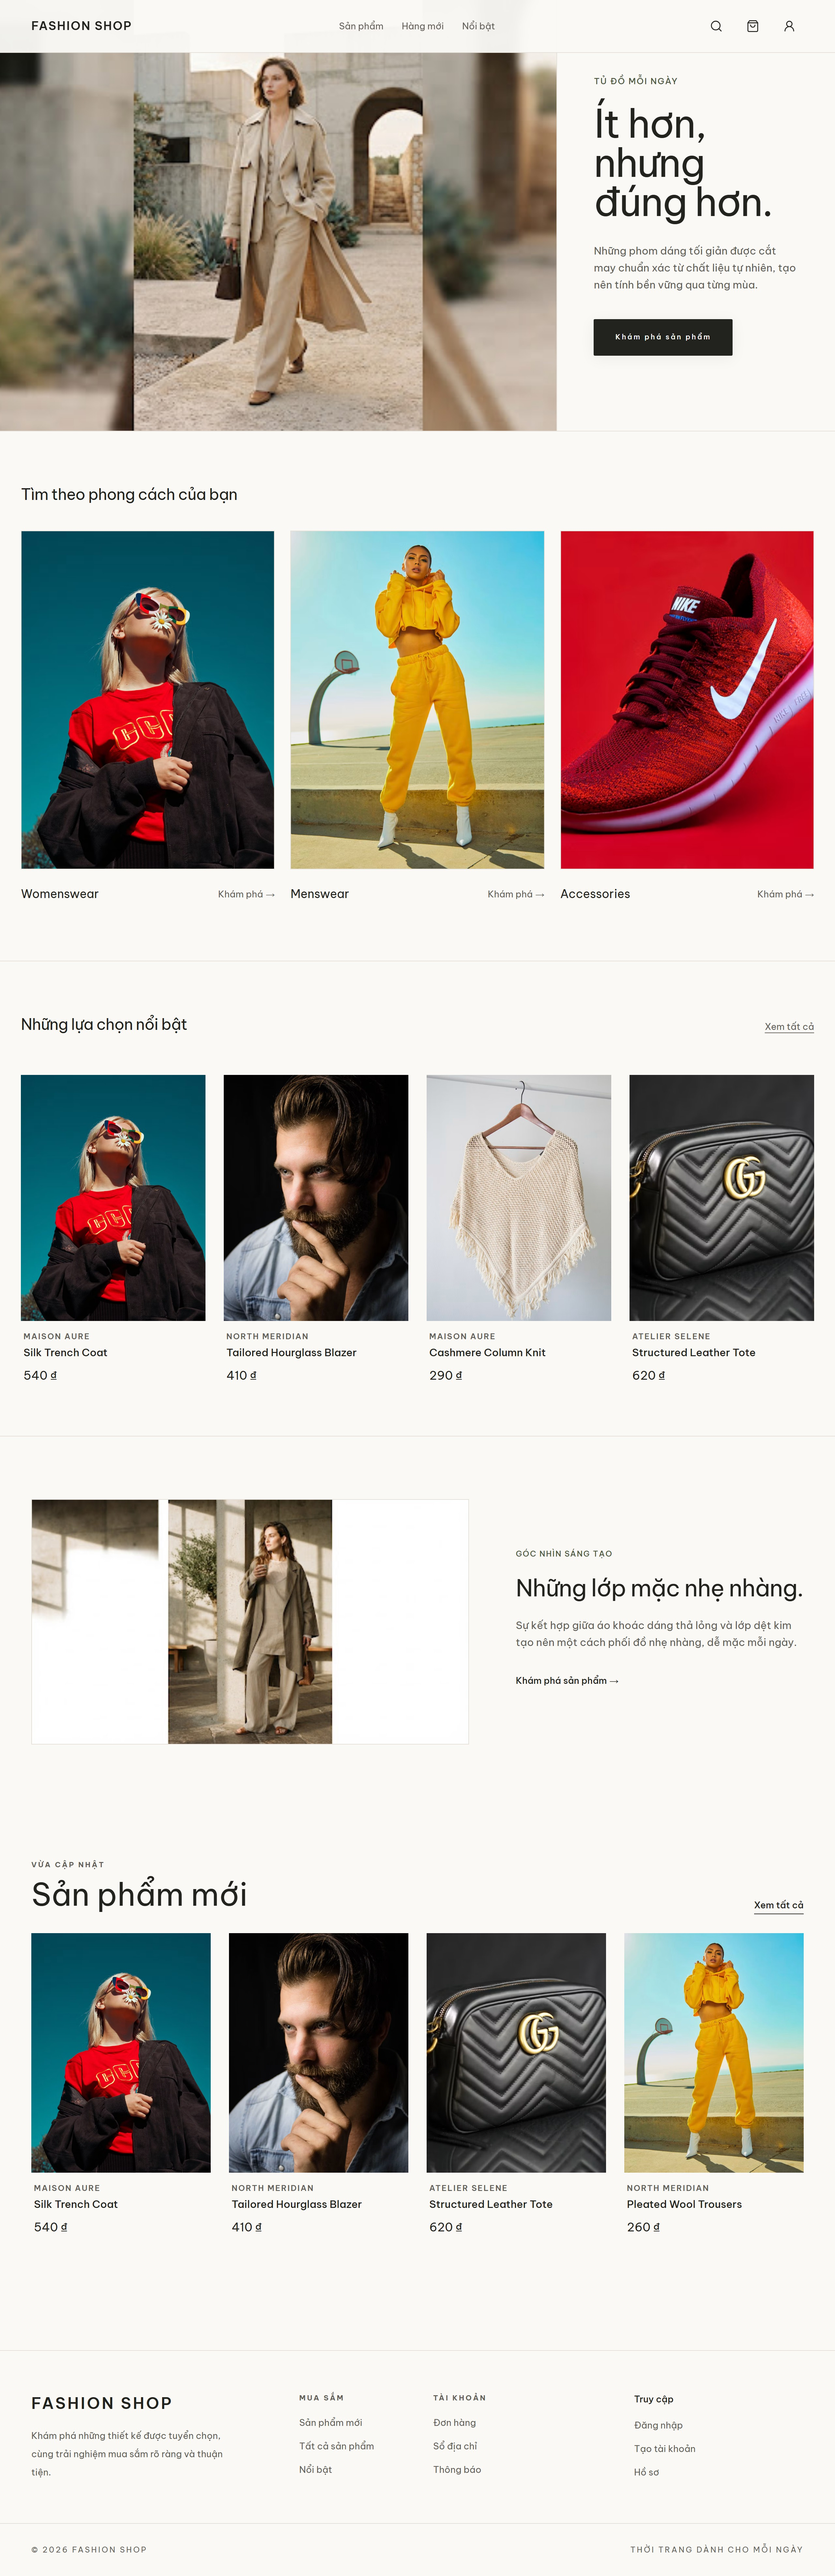
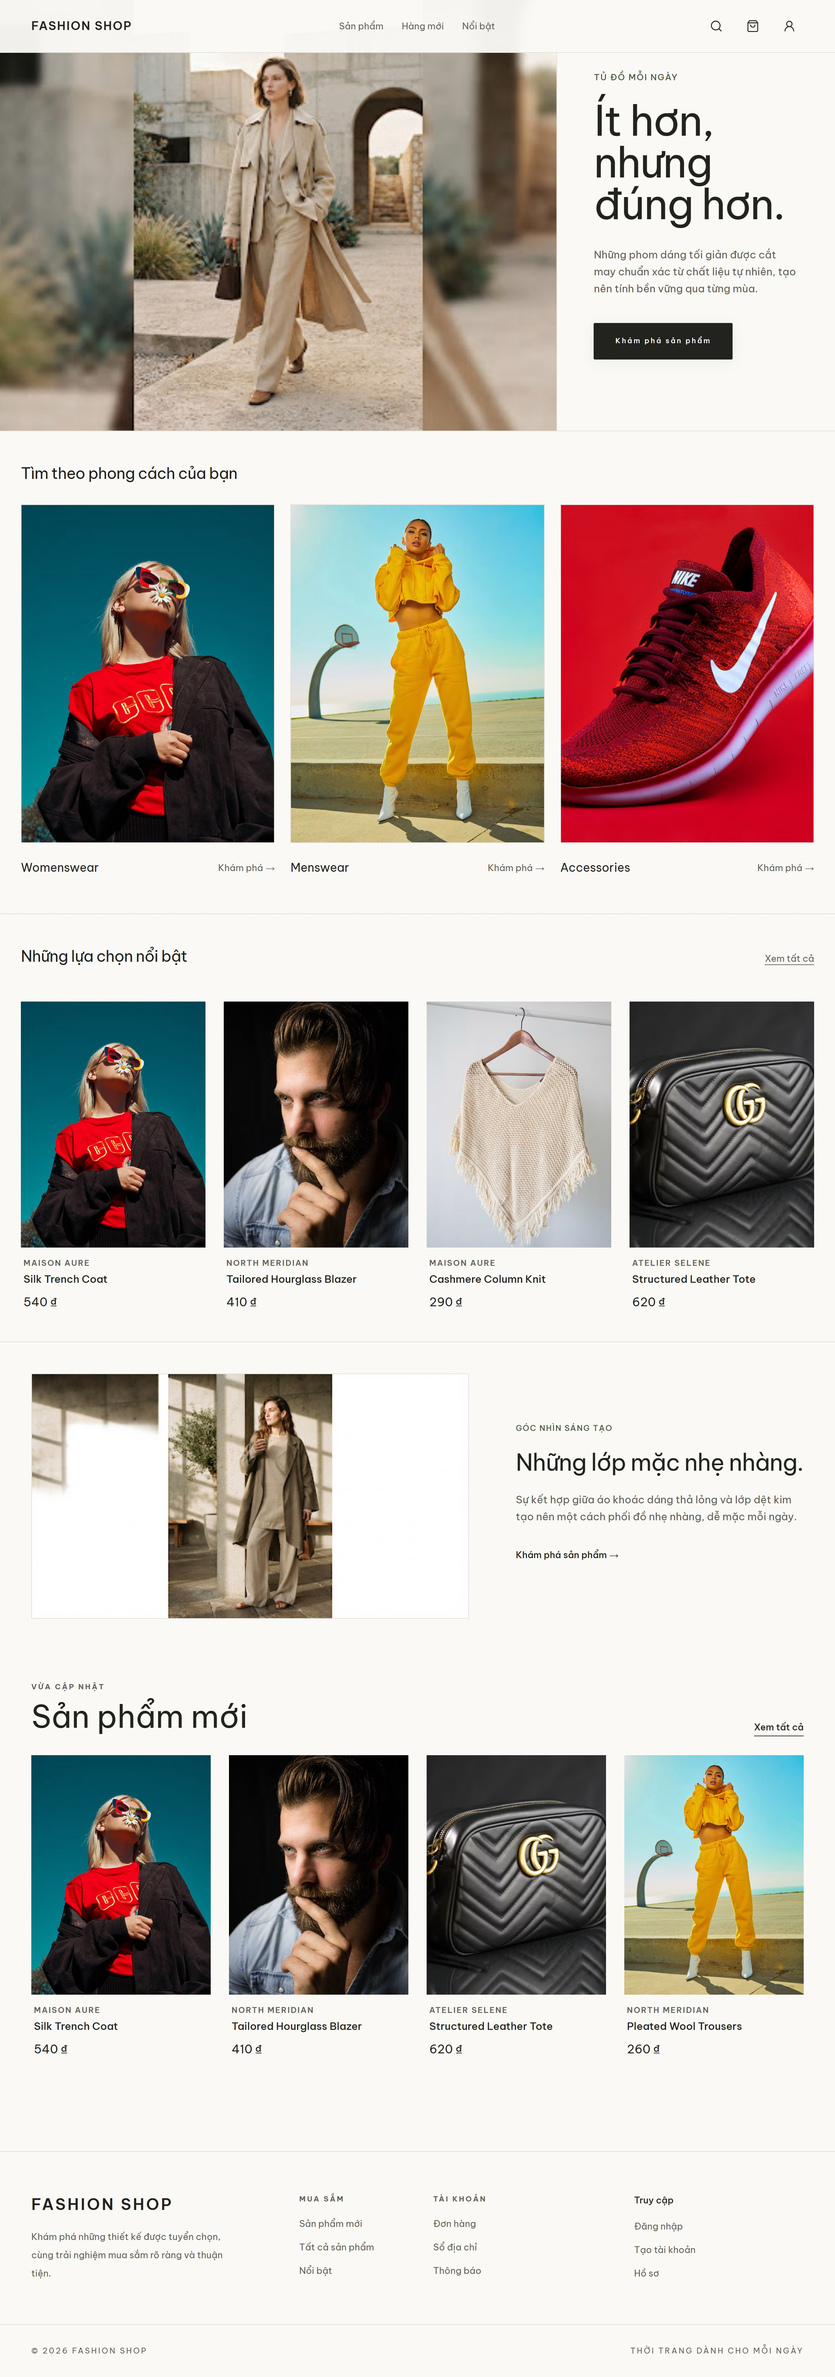
fix(home): make hero full bleed and compact sections

diff --git a/src/features/home/pages/HomePage.tsx b/src/features/home/pages/HomePage.tsx
@@ -45,11 +45,11 @@ export const HomePage = () => {
       <PageWrapper className="space-y-0 pb-0 !pt-0">
         <HeroSection />
         {categoriesQuery.isLoading ? (
-          <Container className="grid grid-cols-1 gap-5 py-12 sm:grid-cols-3 md:py-section">
+          <Container className="grid grid-cols-1 gap-5 py-8 sm:grid-cols-3 md:py-12">
             {Array.from({ length: 3 }).map((_, index) => <SkeletonCard key={index} />)}
           </Container>
         ) : categoriesQuery.isError ? (
-          <Container className="py-12 md:py-section">
+          <Container className="py-8 md:py-12">
             <ErrorCard
               action={<button className="underline underline-offset-4" onClick={() => void categoriesQuery.refetch()} type="button">Thử lại</button>}
               description="Danh mục chưa tải được. Vui lòng thử lại."
@@ -61,11 +61,11 @@ export const HomePage = () => {
         )}
 
         {featuredQuery.isLoading ? (
-          <Container className="grid grid-cols-2 gap-4 py-12 md:grid-cols-4 md:py-section">
+          <Container className="grid grid-cols-2 gap-4 py-8 md:grid-cols-4 md:py-12">
             {Array.from({ length: 4 }).map((_, index) => <SkeletonCard key={index} />)}
           </Container>
         ) : featuredQuery.isError ? (
-          <Container className="py-12 md:py-section">
+          <Container className="py-8 md:py-12">
             <ErrorCard
               action={<button className="underline underline-offset-4" onClick={() => void featuredQuery.refetch()} type="button">Thử lại</button>}
               description="Các sản phẩm nổi bật chưa tải được. Vui lòng thử lại."
@@ -75,7 +75,7 @@ export const HomePage = () => {
         ) : featuredQuery.data?.length ? (
           <FeaturedProducts products={featuredQuery.data} />
         ) : (
-          <Container className="py-12 md:py-section">
+          <Container className="py-8 md:py-12">
             <EmptyState description="Sản phẩm nổi bật sẽ xuất hiện tại đây khi catalog có dữ liệu." title="Chưa có sản phẩm nổi bật" />
           </Container>
         )}
@@ -83,11 +83,11 @@ export const HomePage = () => {
         <CreativePerspectiveSection />
 
         {arrivalsQuery.isLoading ? (
-          <Container className="grid grid-cols-2 gap-4 py-12 md:grid-cols-4 md:py-section">
+          <Container className="grid grid-cols-2 gap-4 py-8 md:grid-cols-4 md:py-12">
             {Array.from({ length: 4 }).map((_, index) => <SkeletonCard key={index} />)}
           </Container>
         ) : arrivalsQuery.isError ? (
-          <Container className="py-12 md:py-section">
+          <Container className="py-8 md:py-12">
             <ErrorCard
               action={<button className="underline underline-offset-4" onClick={() => void arrivalsQuery.refetch()} type="button">Thử lại</button>}
               description="Sản phẩm mới chưa tải được. Vui lòng thử lại."
@@ -97,7 +97,7 @@ export const HomePage = () => {
         ) : arrivalsQuery.data?.length ? (
           <NewArrivals products={arrivalsQuery.data} />
         ) : (
-          <Container className="py-12 md:py-section">
+          <Container className="py-8 md:py-12">
             <EmptyState description="Sản phẩm mới sẽ xuất hiện tại đây khi catalog có dữ liệu." title="Chưa có sản phẩm mới" />
           </Container>
         )}

diff --git a/src/features/home/components/CategoryGrid.tsx b/src/features/home/components/CategoryGrid.tsx
@@ -25,7 +25,7 @@ export const CategoryGrid = ({ categories }: CategoryGridProps) => {
 
   if (categoryItems.length === 0) {
     return (
-      <section className="mx-auto max-w-[1440px] border-b border-border px-5 py-16 md:px-8 md:py-20">
+      <section className="mx-auto max-w-[1440px] border-b border-border px-5 py-8 md:px-8 md:py-12">
         <Container>
           <EmptyState
             action={<Link className="underline underline-offset-4" to={routes.products}>Xem sản phẩm</Link>}
@@ -38,8 +38,8 @@ export const CategoryGrid = ({ categories }: CategoryGridProps) => {
   }
 
   return (
-    <section className="mx-auto max-w-[1440px] border-b border-border px-5 py-16 md:px-8 md:py-20">
-      <div className="mb-10">
+    <section className="mx-auto max-w-[1440px] border-b border-border px-5 py-8 md:px-8 md:py-12">
+      <div className="mb-8">
         <h2 className="text-2xl font-light tracking-tight text-text-primary">Tìm theo phong cách của bạn</h2>
       </div>
       <motion.div className="grid grid-cols-2 gap-3 md:grid-cols-3 md:gap-6" {...motionPresets.staggerContainer(Boolean(reducedMotion), 0.06)}>

diff --git a/src/features/home/components/FeaturedProducts.tsx b/src/features/home/components/FeaturedProducts.tsx
@@ -10,9 +10,9 @@ type FeaturedProductsProps = {
 };
 
 export const FeaturedProducts = ({ products }: FeaturedProductsProps) => (
-  <section className="mx-auto max-w-[1440px] border-b border-border px-5 py-16 md:px-8 md:py-20">
-    <Container className="space-y-8 !px-0">
-      <div className="mb-10 flex items-baseline justify-between gap-6">
+  <section className="mx-auto max-w-[1440px] border-b border-border px-5 py-8 md:px-8 md:py-12">
+    <Container className="!px-0">
+      <div className="mb-8 flex items-baseline justify-between gap-6">
         <h2 className="text-2xl font-light tracking-tight text-text-primary">Những lựa chọn nổi bật</h2>
         <Link className="min-h-11 shrink-0 text-sm text-text-secondary underline underline-offset-4 transition-colors hover:text-text-primary focus-visible:outline focus-visible:outline-2 focus-visible:outline-offset-2 focus-visible:outline-brand-primary" to={routes.products}>
           Xem tất cả

diff --git a/src/features/home/components/HeroSection.tsx b/src/features/home/components/HeroSection.tsx
@@ -16,7 +16,7 @@ export const HeroSection = () => {
   });
 
   return (
-    <section className="mx-auto grid max-w-[1440px] grid-cols-1 border-b border-border bg-canvas lg:min-h-[660px] lg:grid-cols-12">
+    <section className="grid w-full grid-cols-1 border-b border-border bg-canvas lg:min-h-[660px] lg:grid-cols-12">
       <div className="relative order-1 min-h-[420px] overflow-hidden bg-surface-muted sm:min-h-[560px] lg:col-span-8 lg:min-h-[660px]">
         <img
           alt="Người mẫu diện trang phục tông màu trung tính"

diff --git a/src/features/home/components/NewArrivals.tsx b/src/features/home/components/NewArrivals.tsx
@@ -10,7 +10,7 @@ type NewArrivalsProps = {
 };
 
 export const NewArrivals = ({ products }: NewArrivalsProps) => (
-  <section className="py-12 md:py-section">
+  <section className="py-8 md:py-12">
     <Container className="space-y-8">
       <SectionHeader
         action={<Link className="border-b border-text-primary pb-1 text-sm font-medium text-text-primary" to={routes.products}>Xem tất cả</Link>}

diff --git a/src/features/home/components/CreativePerspectiveSection.tsx b/src/features/home/components/CreativePerspectiveSection.tsx
@@ -10,7 +10,7 @@ export const CreativePerspectiveSection = () => {
   const reducedMotion = useReducedMotion();
 
   return (
-    <section className="py-16 md:py-24">
+    <section className="py-8 md:py-12">
       <Container>
         <motion.div
           className="grid items-center gap-8 lg:grid-cols-12 lg:gap-12"

diff --git a/artifacts/issue-32/README.md b/artifacts/issue-32/README.md
@@ -19,11 +19,17 @@ The primary Home reference is the original approved Stitch implementation preser
 
 ## Wide desktop comparison
 
-The approved HTML sets the hero to `max-width: 1440px; margin-inline: auto` and applies a subtle bottom border. At a 1600 CSS px viewport, both the reference and implementation therefore have an 80px centered margin and the same divider. These are part of the design, not additional layout added by the implementation. At 1280 CSS px the hero fills the viewport. The 1600px pair below uses the same viewport for both images.
+The review screenshot and follow-up clarify that the Home hero image should reach both viewport edges, while the header and content sections keep their own gutters. The older original HTML has a `max-width: 1440px` wrapper; the implementation follows the user's approved screenshot direction at wide desktop sizes. The fine divider below the hero remains, as it appears in the design reference.
 
-| Approved Stitch at 1600 × 900 CSS px | Implementation at 1600 × 900 CSS px |
+Home section vertical padding is now 32px on mobile and 48px on desktop, including query loading, error, and empty states. The featured section no longer combines its own heading margin with a second parent `space-y` gap. The visual smoke checks full-bleed bounds at 390, 1280, and 1600 CSS px, and checks the section padding at mobile and desktop widths.
+
+| Design reference | Implementation |
 | --- | --- |
-| ![Stitch Home wide desktop](screenshots/design-home-desktop-wide.jpg) | ![Home implementation wide desktop](screenshots/home-desktop-wide.jpg) |
+| Home Desktop, 1280 CSS px<br>![Home design desktop](screenshots/design-home-desktop.jpg) | ![Home implementation desktop](screenshots/home-desktop.jpg) |
+| Home Mobile, 390 CSS px<br>![Home design mobile](screenshots/design-home-mobile.jpg) | ![Home implementation mobile](screenshots/home-mobile.jpg) |
+| User-requested full-bleed check, 1600 CSS px | ![Home implementation wide desktop](screenshots/home-desktop-wide.jpg) |
+
+Remaining divergence: the older original Home HTML has a 1440px hero maximum, while the supplied design review and this follow-up require the image to reach the viewport edges at wide sizes. The 1600px implementation capture follows the user's clarification; all other Home sections retain their independent max-width and padding.
 
 ## Visual alignment and remaining differences
 
